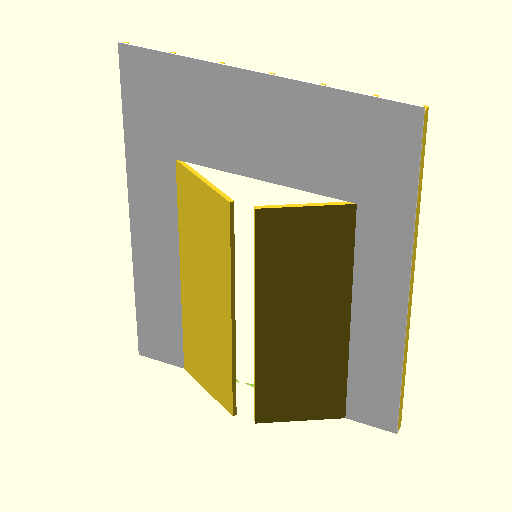
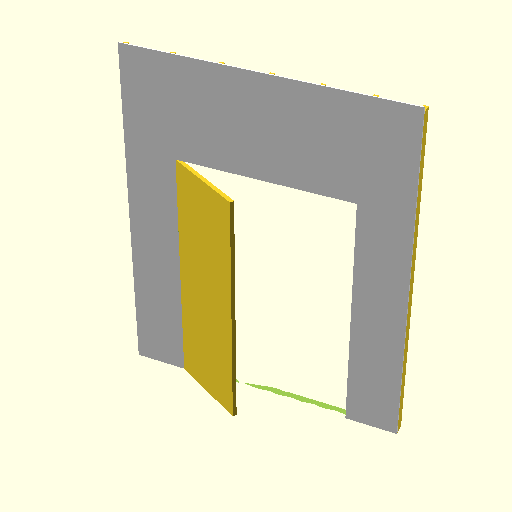
add noew files

Changed region(s): [[0.4688, 0.375, 0.7188, 0.8438]]

diff --git a/README.md b/README.md
@@ -167,6 +167,24 @@ Repo to learn the art of openscad
 ## preview/modules/kbbq_table.png
 <img src="https://raw.githubusercontent.com/neotericpiguy/Drawings/dev/preview/modules/kbbq_table.png" width="650">
 
+## preview/modules/rooms/bathroom.png
+<img src="https://raw.githubusercontent.com/neotericpiguy/Drawings/dev/preview/modules/rooms/bathroom.png" width="650">
+
+## preview/modules/rooms/bedroom_area_front_view.png
+<img src="https://raw.githubusercontent.com/neotericpiguy/Drawings/dev/preview/modules/rooms/bedroom_area_front_view.png" width="650">
+
+## preview/modules/rooms/bedroom_area_iso_view.png
+<img src="https://raw.githubusercontent.com/neotericpiguy/Drawings/dev/preview/modules/rooms/bedroom_area_iso_view.png" width="650">
+
+## preview/modules/rooms/bedroom_area_side_view.png
+<img src="https://raw.githubusercontent.com/neotericpiguy/Drawings/dev/preview/modules/rooms/bedroom_area_side_view.png" width="650">
+
+## preview/modules/rooms/bedroom_area_top.png
+<img src="https://raw.githubusercontent.com/neotericpiguy/Drawings/dev/preview/modules/rooms/bedroom_area_top.png" width="650">
+
+## preview/modules/rooms/bedroom_area_top_view.png
+<img src="https://raw.githubusercontent.com/neotericpiguy/Drawings/dev/preview/modules/rooms/bedroom_area_top_view.png" width="650">
+
 ## preview/modules/rooms/dining_front_view.png
 <img src="https://raw.githubusercontent.com/neotericpiguy/Drawings/dev/preview/modules/rooms/dining_front_view.png" width="650">
 
@@ -187,6 +205,18 @@ Repo to learn the art of openscad
 
 ## preview/modules/rooms/entry.png
 <img src="https://raw.githubusercontent.com/neotericpiguy/Drawings/dev/preview/modules/rooms/entry.png" width="650">
+
+## preview/modules/rooms/garage.png
+<img src="https://raw.githubusercontent.com/neotericpiguy/Drawings/dev/preview/modules/rooms/garage.png" width="650">
+
+## preview/modules/rooms/guest_bedroom.png
+<img src="https://raw.githubusercontent.com/neotericpiguy/Drawings/dev/preview/modules/rooms/guest_bedroom.png" width="650">
+
+## preview/modules/rooms/ham_antenna_plan.png
+<img src="https://raw.githubusercontent.com/neotericpiguy/Drawings/dev/preview/modules/rooms/ham_antenna_plan.png" width="650">
+
+## preview/modules/rooms/house.png
+<img src="https://raw.githubusercontent.com/neotericpiguy/Drawings/dev/preview/modules/rooms/house.png" width="650">
 
 ## preview/modules/rooms/kitchen_area_front_view.png
 <img src="https://raw.githubusercontent.com/neotericpiguy/Drawings/dev/preview/modules/rooms/kitchen_area_front_view.png" width="650">
@@ -244,6 +274,12 @@ Repo to learn the art of openscad
 
 ## preview/modules/rooms/laundry_room_top_view.png
 <img src="https://raw.githubusercontent.com/neotericpiguy/Drawings/dev/preview/modules/rooms/laundry_room_top_view.png" width="650">
+
+## preview/modules/rooms/living_room.png
+<img src="https://raw.githubusercontent.com/neotericpiguy/Drawings/dev/preview/modules/rooms/living_room.png" width="650">
+
+## preview/modules/rooms/master_bedroom.png
+<img src="https://raw.githubusercontent.com/neotericpiguy/Drawings/dev/preview/modules/rooms/master_bedroom.png" width="650">
 
 ## preview/modules/rooms/office_front_view.png
 <img src="https://raw.githubusercontent.com/neotericpiguy/Drawings/dev/preview/modules/rooms/office_front_view.png" width="650">
